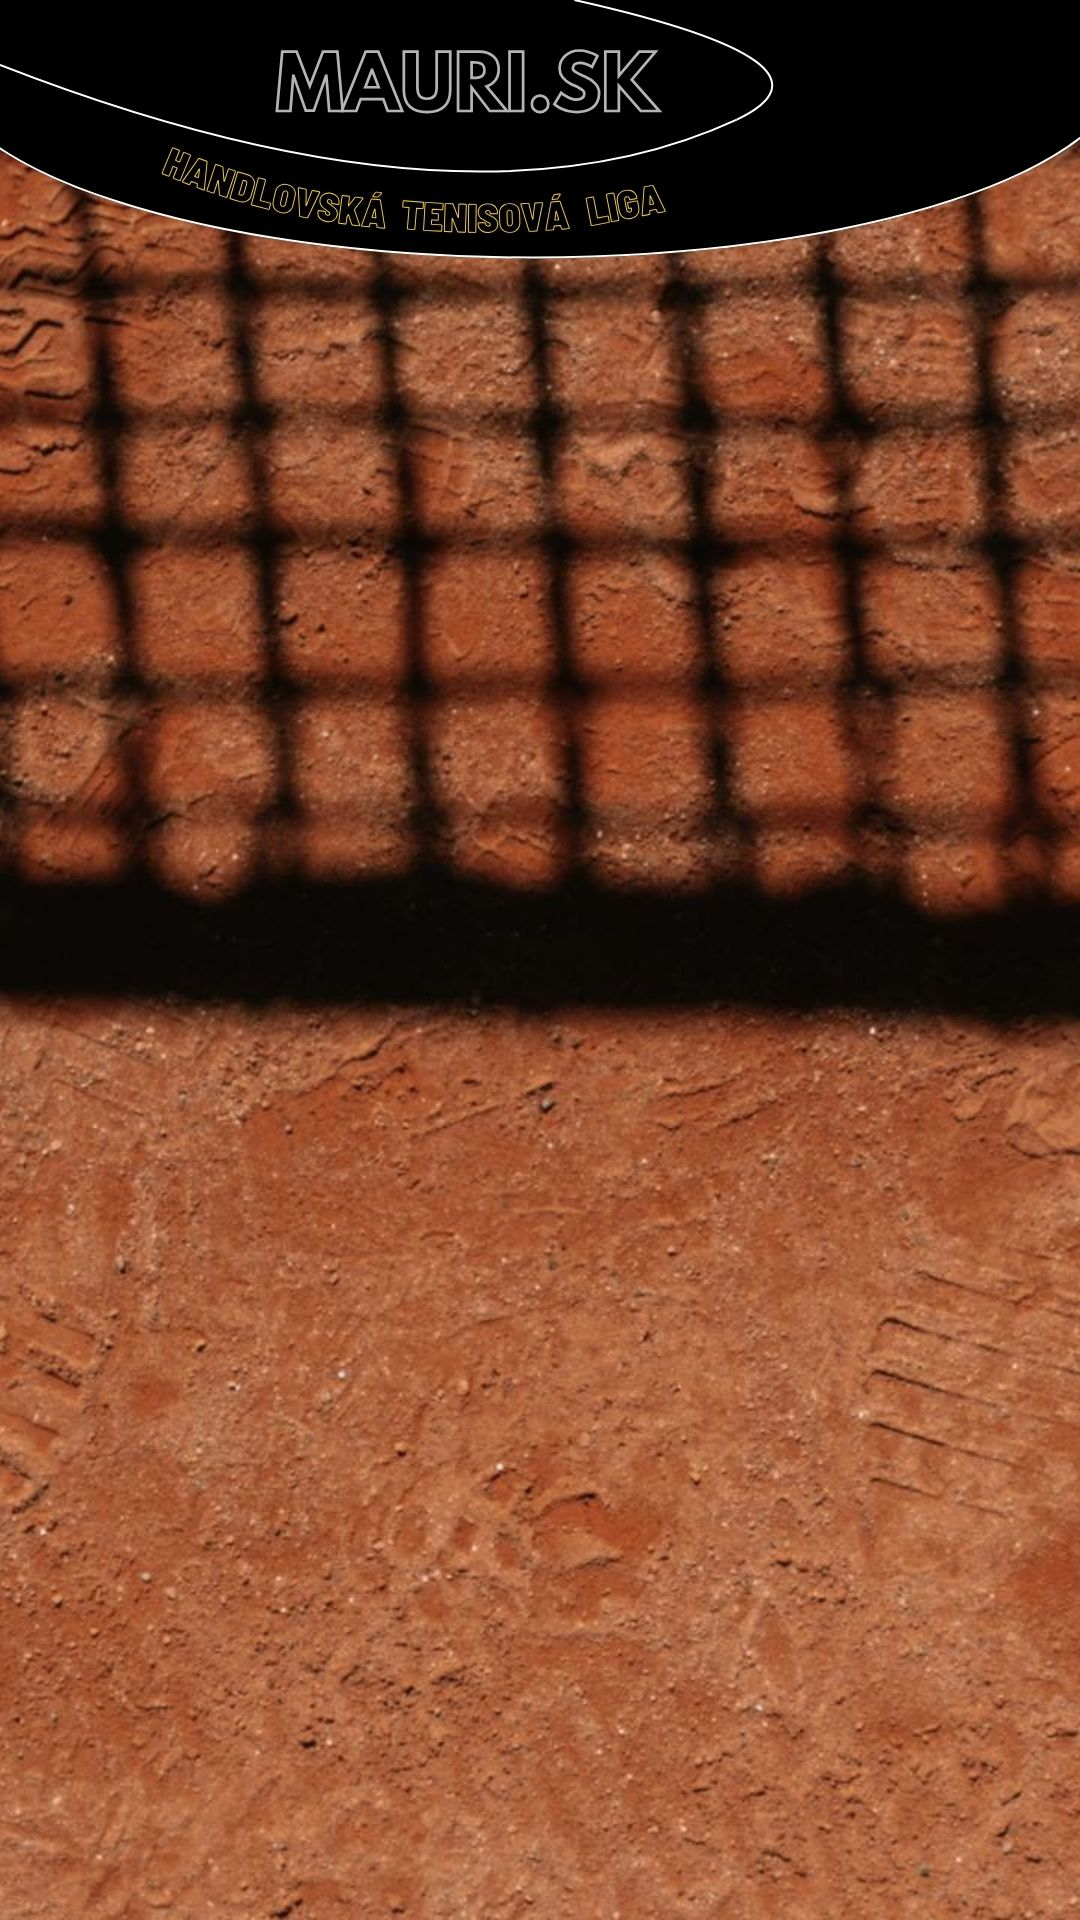
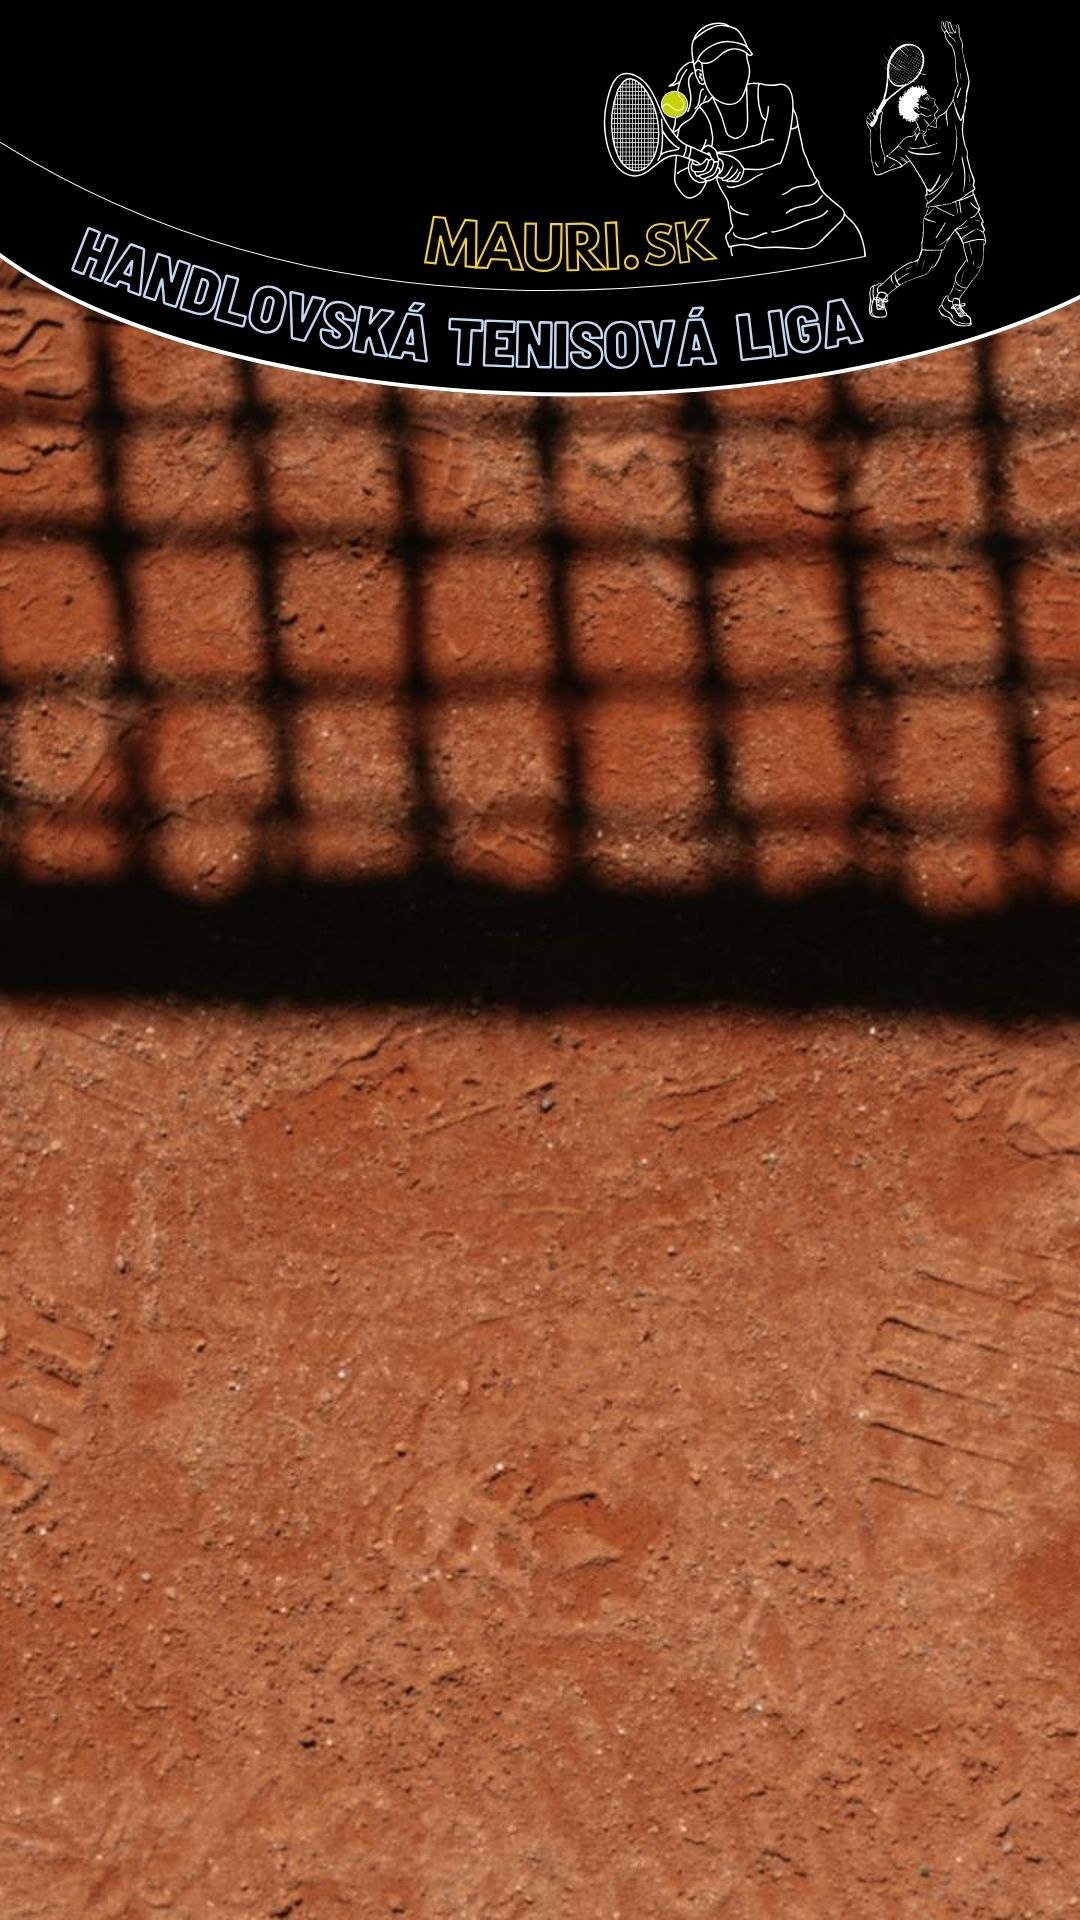
pozadie,ocislovanie hracov,ucastnici v sezone

Changed region(s): [[0.0, 0.0, 1.0, 0.2188]]

diff --git a/src/views/HomeView.vue b/src/views/HomeView.vue
@@ -33,6 +33,8 @@
             <div v-for="activity in group.activities" :key="activity.match.id" class="activity-item">
               <div class="scoreboard">
 
+                <span class="league-name">{{ activity.leagueName }}</span>
+
                 <!-- HOME -->
                 <div class="row">
                   <div class="name" :class="getPlayerClass(activity.match, 'home')">
@@ -104,9 +106,13 @@
           <!-- <AppButton label="Vytvoriť hráča" type="create" @clicked="goToCreatePlayer" /> -->
         </div>
 
-        <div class="active-season" @click="openActiveSeason">
-          Aktuálna sezóna
+        <div class="list-or-nothing" @click="openActiveSeason">
+          <div class="active-season">
+            <span>Aktuálna sezóna</span>
+          </div>
+
         </div>
+
       </div>
 
       <!-- <div>
@@ -335,6 +341,10 @@ export default {
   align-items: center;
 }
 
+.league-name{
+  color: #ffffff;
+}
+
 .name {
   font-size: 1.2rem;
   text-overflow: ellipsis;
@@ -387,18 +397,18 @@ export default {
 }
 
 .active-season {
-  background: #002E2C;
-  border: 2px solid #4CAF50;
-  border-radius: 12px;
   padding: 16px 20px;
-  max-width: 420px;
-  margin: 0 auto;
+  width: 100%;
+  text-align: center;
   color: #fff;
   font-size: 1.2rem;
-  text-align: center;
-  box-shadow: 0 4px 12px rgba(0, 0, 0, 0.3);
   cursor: pointer;
-  letter-spacing: 0.5px;
+  letter-spacing: 0.8px;
+  transition: background-color 0.2s ease;
+}
+
+.active-season:hover {
+  background: #002E2C;
 }
 
 .hint {

diff --git a/src/views/ParticipantsView.vue b/src/views/ParticipantsView.vue
@@ -20,7 +20,7 @@
 
                     <!-- Aktívni hráči -->
                     <div v-else class="list-or-nothing">
-                        <ParticipantList class="participants" :title="'Zoznam hráčov'" :participants="paginatedPlayers"
+                        <ParticipantList class="participants" :title="'Zoznam hráčov'" :participants="paginatedPlayersWithIndex"
                             :remove="isAdmin ? (id) => confirmDeleteParticipant('players', id) : null"
                             :edit="isAdmin ? (id) => editPlayer(id) : null" :showProgress="false"
                             @view-detail="(id) => goToDetail('players', id)" />
@@ -60,7 +60,7 @@
                                 <option value="">-- Vyber hráča --</option>
                                 <option v-for="player in players" :key="player.id" :value="player.id">
                                     <!-- {{ player.firstName }} {{ player.lastName }} -->
-                                      {{ player.name }}
+                                    {{ player.name }}
                                 </option>
                             </select>
                             <label for="player2">Hráč 2:</label>
@@ -68,7 +68,7 @@
                                 <option value="">-- Vyber hráča --</option>
                                 <option v-for="player in players" :key="player.id" :value="player.id">
                                     <!-- {{ player.firstName }} {{ player.lastName }} -->
-                                      {{ player.name }}
+                                    {{ player.name }}
                                 </option>
                             </select>
 
@@ -90,7 +90,7 @@
 
                     <!-- Aktívne tímy -->
                     <div v-else class="list-or-nothing">
-                        <ParticipantList class="participants" :title="'Zoznam tímov'" :participants="paginatedTeams"
+                        <ParticipantList class="participants" :title="'Zoznam tímov'" :participants="paginatedTeamsWithIndex"
                             :remove="isAdmin ? (id) => confirmDeleteParticipant('teams', id) : null"
                             :showProgress="false" @view-detail="(id) => goToDetail('teams', id)" />
                         <div v-if="totalPagesTeams > 1" class="pagination">
@@ -309,6 +309,12 @@ export default {
             const end = start + this.participantsPerPage;
             return this.players.slice(start, end);
         },
+        paginatedPlayersWithIndex() {
+            return this.paginatedPlayers.map((p, i) => ({
+                ...p,
+                index: (this.currentPagePlayers - 1) * this.participantsPerPage + i + 1
+            }))
+        },
         totalPagesTeams() {
             return Math.ceil(this.teams.length / this.participantsPerPage);
         },
@@ -316,6 +322,12 @@ export default {
             const start = (this.currentPageTeams - 1) * this.participantsPerPage;
             const end = start + this.participantsPerPage;
             return this.teams.slice(start, end);
+        },
+        paginatedTeamsWithIndex(){
+            return this.paginatedTeams.map((t, i)=> ({
+                ...t,
+                index: (this.currentPageTeams - 1) * this.participantsPerPage + i + 1
+            }))
         },
         deleteMessage() {
             return `Naozaj chcete zmazať ${this.participant?.type === 'players' ? 'hráča' : 'tím'}: ${this.participant?.name}?`;

diff --git a/src/components/ParticipantList.vue b/src/components/ParticipantList.vue
@@ -5,6 +5,7 @@
             <li v-for="participant in participants" :key="participant.id" :class="{ inactive: !participant.active }">
                 <div class="participant-content">
                     <div class="info">
+                        <span class="index">{{ participant.index }}</span>
                         <span @click="openDetail(participant.id)">{{ participant.name }}</span>
                         <CircularProgress v-if="showProgress" :progress="participant.leagueProgress" />
                     </div>
@@ -66,6 +67,7 @@ export default {
 <style scoped>
 ul {
     list-style-type: none;
+    padding: 0;
 }
 
 li {
@@ -83,13 +85,19 @@ li:not(:last-child) {
 
 .participant-content {
     display: flex;
-    justify-content: space-between;
+    justify-content: flex-start;
     align-items: center;
+}
+.index {
+    width: 20px;
+    display: inline-block;
+    font-weight: bold;
+    color: #ffffff;
 }
 
 .info {
     display: flex;
-    justify-content: space-between;
+    /* justify-content: flex-start; */
     align-items: center;
     gap: 10px;
     width: 75%;

diff --git a/src/views/SeasonsView.vue b/src/views/SeasonsView.vue
@@ -25,6 +25,7 @@
                         <div class="season-card highlight" @click="$router.push('/seasons/' + currentSeason.id)">
                             <h3>Aktuálna</h3>
                             <h3 class="season-year">{{ currentSeason.year }}</h3>
+                            <h4>{{ currentSeason.totalParticipants }} účastníkov</h4>
                             <p class="season-date start">{{ currentSeason.startDate }}</p>
 
                             <div class="season-info">
@@ -50,7 +51,7 @@
                         <div class="season-card highlight" @click="$router.push('/seasons/' + upcomingSeason.id)">
                             <h3>Pripravovaná</h3>
                             <h3 class="season-year">{{ upcomingSeason.year }}</h3>
-
+                            <h4>{{ upcomingSeason.totalParticipants }} účastníkov</h4>
                             <div class="season-info">
                                 <p><strong>Ligy:</strong> {{ upcomingSeason.leagues.length }}</p>
                                 <p><strong>Hráči:</strong> {{ upcomingSeason.totalPlayers }}</p>
@@ -85,6 +86,7 @@
                             <div v-for="season in archivedSeasons" :key="season.id" class="season-card"
                                 @click="$router.push('/seasons/' + season.id)">
                                 <h3 class="season-year">{{ season.year }}</h3>
+                                <h4>{{ season.totalParticipants }} účastníkov</h4>
                                 <p class="season-date start">{{ season.startDate }}</p>
                                 <p class="season-date end">{{ season.endDate }}</p>
 

diff --git a/src/App.vue b/src/App.vue
@@ -44,7 +44,7 @@ import AppFooter from './components/AppFooter.vue';
 
 .main-content {
     flex-grow: 1;
-    padding: 20px;
+    /* padding: 20px; */
     display: flex;
     flex-direction: column;
 }
@@ -52,6 +52,7 @@ import AppFooter from './components/AppFooter.vue';
 @media (max-width: 768px) {
     .header {
         height: 100px;
+         margin-top: 130px;
     }
 }
 </style>

diff --git a/src/components/Navbar.vue b/src/components/Navbar.vue
@@ -251,6 +251,7 @@ export default {
   display: none;
   position: relative;
   top: -15px;
+  right: 230px;
 
   flex-direction: column;
   align-items: center;
@@ -297,8 +298,6 @@ export default {
 
 .hamburger:hover {
   transform: translateY(-2px);
-
-  background: rgba(255, 255, 255, 0.12);
 
   border-color: rgba(255, 215, 0, 0.4);
 }